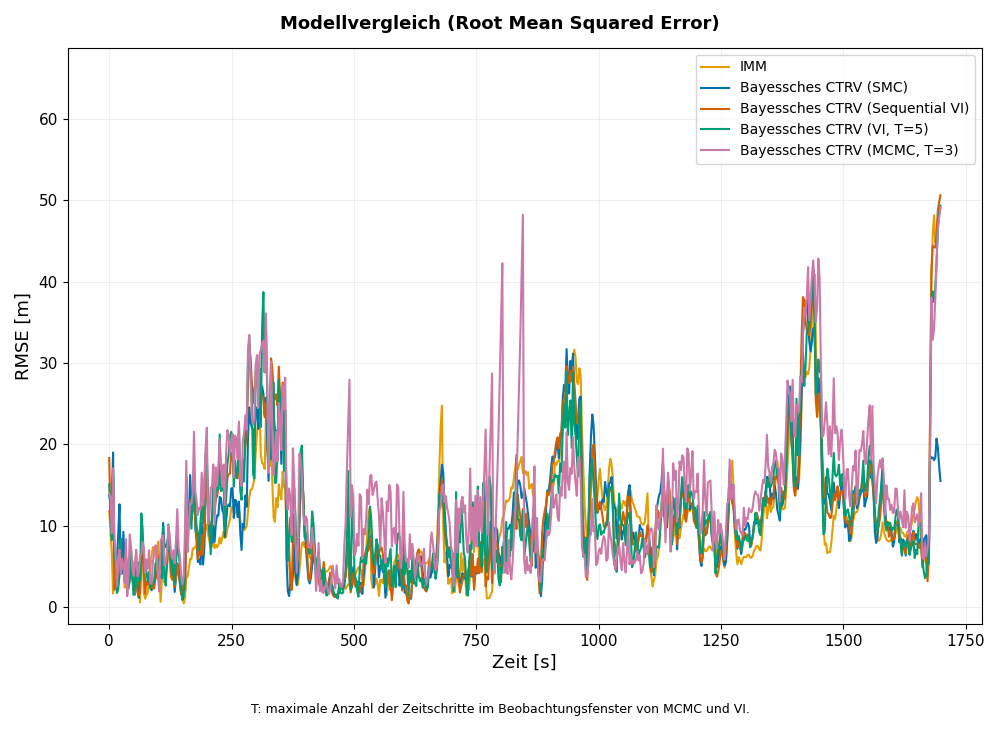
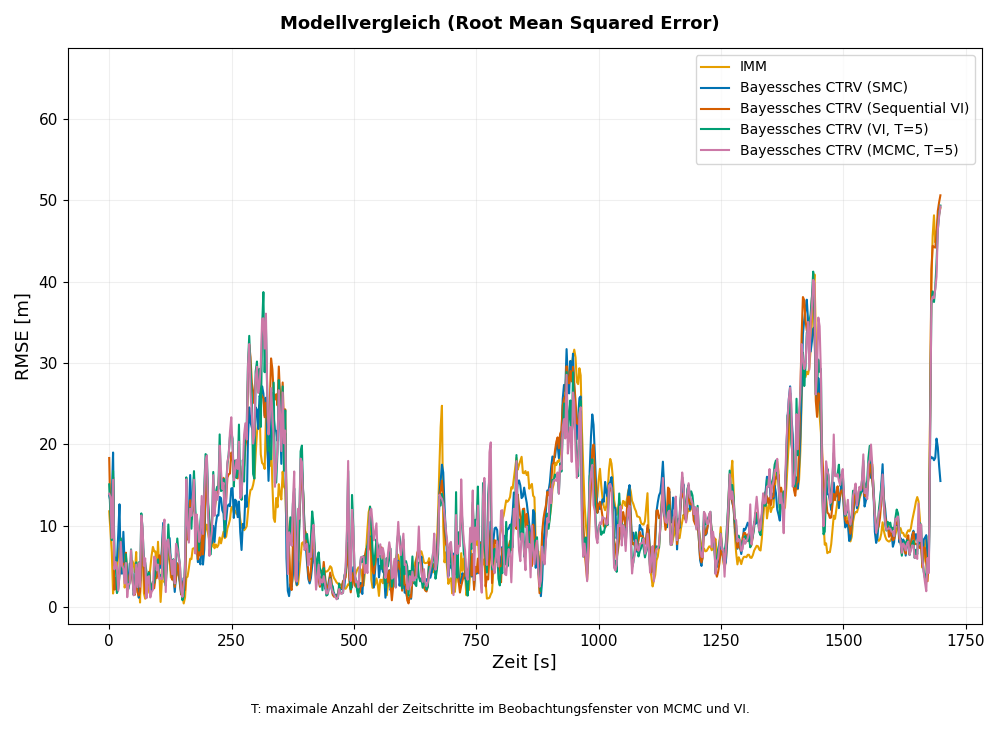
Update model comparison figures for MCMC with T=5

Changed region(s): [[0.093, 0.3311, 0.93, 0.8126], [0.93, 0.3912, 0.961, 0.4514]]

diff --git a/scripts/model_comparison/compare_bayesian_ctrv_imm.py b/scripts/model_comparison/compare_bayesian_ctrv_imm.py
@@ -14,7 +14,7 @@ IMM_CSV = project_path("results/evaluation/imm.csv")
 BAYESIAN_SMC_CSV = project_path("results/evaluation/bayesian_ctrv_smc.csv")
 BAYESIAN_SEQ_VI_CSV = project_path("results/evaluation/bayesian_ctrv_seq_vi.csv")
 BAYESIAN_VI_CSV = project_path("results/evaluation/bayesian_ctrv_vi_05.csv")
-BAYESIAN_MCMC_CSV = project_path("results/evaluation/bayesian_ctrv_mcmc_03.csv")
+BAYESIAN_MCMC_CSV = project_path("results/evaluation/bayesian_ctrv_mcmc_05.csv")
 
 SHOW_POINTS = False  # Mark forecast origins on metric curves.
 SHOW_MEAN_LINES = False  # Show mean metric values as dashed lines.
